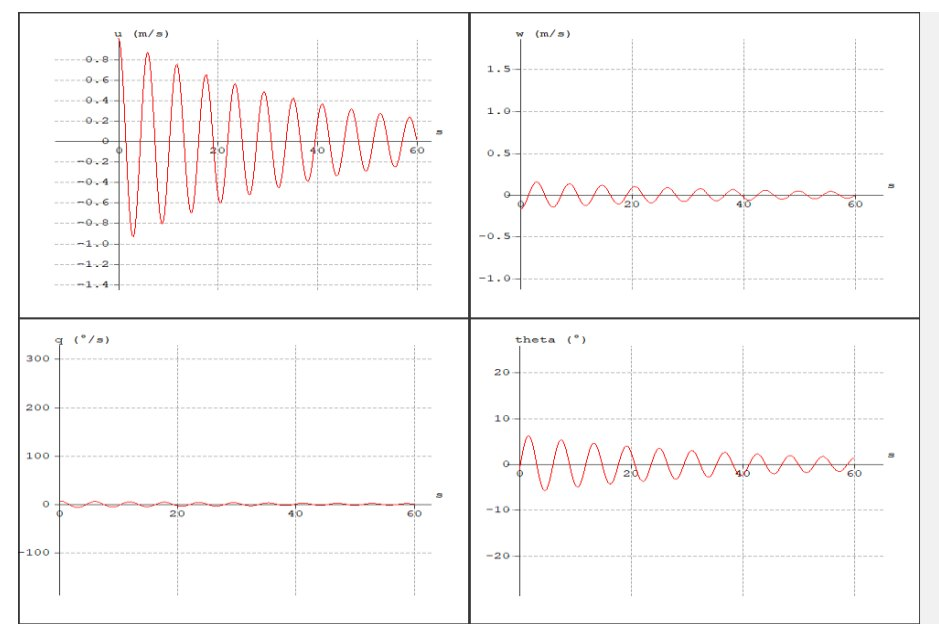
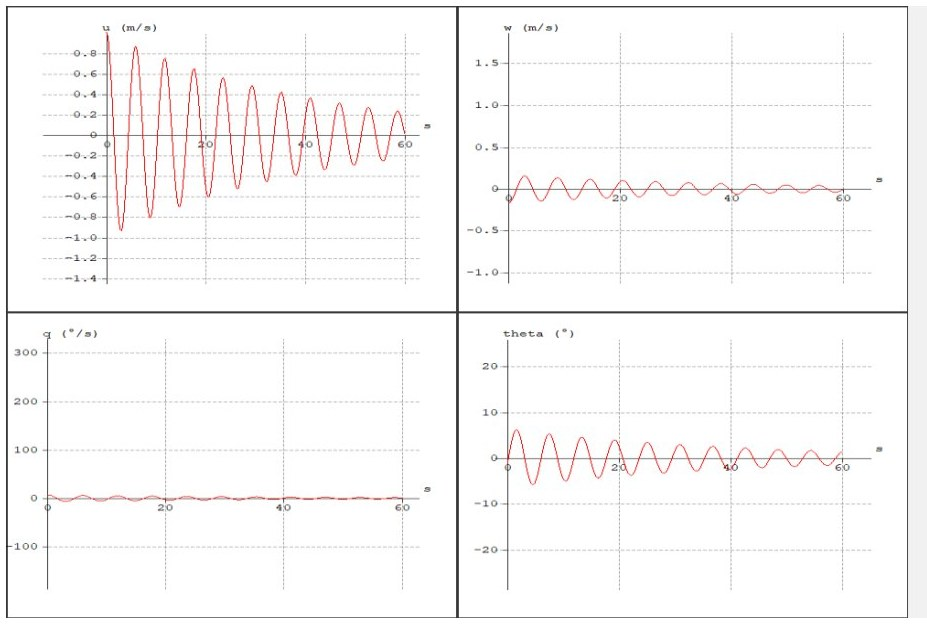
Image resizing

diff --git a/project-aero-portfolio.html b/project-aero-portfolio.html
@@ -8,6 +8,19 @@
   <link rel="preconnect" href="https://fonts.googleapis.com"/>
   <link href="https://fonts.googleapis.com/css2?family=Inter:wght@400;500;600;700;800&family=JetBrains+Mono:wght@400;500&display=swap" rel="stylesheet"/>
   <link rel="stylesheet" href="style-v1.1.css"/>
+  <style>
+    /* Aero page: side-by-side figures share one height. Each figure's flex-grow is its
+       image aspect ratio (--ar), so every image in a row ends up exactly the same height. */
+    .fig-row { display: flex; gap: 20px; align-items: flex-start; margin-bottom: 4px; }
+    .fig-row > .figure { flex: var(--ar, 1) 1 0; min-width: 0; }
+    .figure img { object-fit: cover; }
+    .figure.fig-wide { max-width: 100%; }
+    @media (max-width: 640px) {
+      .fig-row { flex-direction: column; gap: 0; }
+      .fig-row > .figure { flex: none; width: 100%; }
+      .fig-row > .figure.fig-narrow { width: 60%; margin-left: auto; margin-right: auto; }
+    }
+  </style>
 </head>
 <body>
 
@@ -68,7 +81,7 @@
     <div class="facts-grid">
       <div class="fact">
         <div class="fact-label">Where</div>
-        <div class="fact-value">IOE, Nepal</div>
+        <div class="fact-value">Thapathali Campus, IOE</div>
       </div>
       <div class="fact">
         <div class="fact-label">Projects</div>
@@ -106,7 +119,7 @@
     <!-- ── 1. Monocoque ── -->
     <section class="proj-section">
       <h2 id="monocoque">Glass-fibre composite monocoque body</h2>
-      <p class="sec-note">A hollow, one-piece fuselage for a 3 m wingspan RC aircraft. Guided by Lecturer Biman Rimal, Pulchowk Campus, IOE.</p>
+      <p class="sec-note">A hollow, one-piece fuselage for a 3 m wingspan RC aircraft. I designed and fabricated it at Thapathali Campus, IOE, under the guidance of Lecturer Biman Rimal.</p>
 
       <p>
         The goal was to fabricate a lightweight <strong>monocoque composite body</strong> for an RC
@@ -127,9 +140,9 @@
         <strong>mold core</strong>, a positive of the fuselage, was sent for 3D printing.
       </p>
 
-      <div class="figure-grid">
-        <figure class="figure">
-          <img src="assets/projects/aero-portfolio/img/monocoque_surface_wireframe.jpg" alt="CAD wireframe of fuselage cross-sections used to build the monocoque surface"/>
+      <div class="fig-row">
+        <figure class="figure" style="--ar:1.501">
+          <img src="assets/projects/aero-portfolio/img/monocoque_surface_wireframe.jpg" width="1142" height="761" loading="lazy" alt="CAD wireframe of fuselage cross-sections used to build the monocoque surface"/>
           <div class="ph">
             <div class="ph-icon">🧩</div>
             <div class="ph-title">Surface wireframe</div>
@@ -137,8 +150,8 @@
           </div>
           <figcaption><b>Fig. 1</b> — Fuselage surface built on a wireframe of cross-sections.</figcaption>
         </figure>
-        <figure class="figure">
-          <img src="assets/projects/aero-portfolio/img/monocoque_concept_cad.jpg" alt="Concept CAD of the split mold with hand-written manufacturing notes"/>
+        <figure class="figure" style="--ar:1.501">
+          <img src="assets/projects/aero-portfolio/img/monocoque_concept_cad.jpg" width="1229" height="819" loading="lazy" alt="Concept CAD of the split mold with hand-written manufacturing notes"/>
           <div class="ph">
             <div class="ph-icon">✏</div>
             <div class="ph-title">Concept CAD</div>
@@ -148,9 +161,9 @@
         </figure>
       </div>
 
-      <div class="figure-grid">
-        <figure class="figure">
-          <img src="assets/projects/aero-portfolio/img/mold_core_3d_printing.jpg" alt="Mold core sections being 3D printed with support structures"/>
+      <div class="fig-row">
+        <figure class="figure" style="--ar:1.499">
+          <img src="assets/projects/aero-portfolio/img/mold_core_3d_printing.jpg" width="550" height="367" loading="lazy" alt="Mold core sections being 3D printed with support structures"/>
           <div class="ph">
             <div class="ph-icon">🖨</div>
             <div class="ph-title">3D printing the core</div>
@@ -158,8 +171,8 @@
           </div>
           <figcaption><b>Fig. 3</b> — Printing the mold core in sections.</figcaption>
         </figure>
-        <figure class="figure">
-          <img src="assets/projects/aero-portfolio/img/mold_core_printed.jpg" alt="The assembled 3D-printed fuselage mold core"/>
+        <figure class="figure" style="--ar:1.501">
+          <img src="assets/projects/aero-portfolio/img/mold_core_printed.jpg" width="1600" height="1066" loading="lazy" alt="The assembled 3D-printed fuselage mold core"/>
           <div class="ph">
             <div class="ph-icon">✈</div>
             <div class="ph-title">Printed mold core</div>
@@ -177,9 +190,9 @@
         stabiliser built in, plus mounts for the horizontal stabiliser and the wing.
       </p>
 
-      <div class="figure-grid">
-        <figure class="figure">
-          <img src="assets/projects/aero-portfolio/img/negative_half_mold.jpg" alt="Negative half mold being prepared from the 3D-printed core"/>
+      <div class="fig-row">
+        <figure class="figure" style="--ar:2.000">
+          <img src="assets/projects/aero-portfolio/img/negative_half_mold.jpg" width="1600" height="800" loading="lazy" alt="Negative half mold being prepared from the 3D-printed core"/>
           <div class="ph">
             <div class="ph-icon">🧪</div>
             <div class="ph-title">Negative half mold</div>
@@ -187,8 +200,8 @@
           </div>
           <figcaption><b>Fig. 5</b> — Preparing the negative half mold from the printed core.</figcaption>
         </figure>
-        <figure class="figure">
-          <img src="assets/projects/aero-portfolio/img/monocoque_demolded.jpg" alt="Yellow glass-fibre monocoque fuselage taken out of the mold"/>
+        <figure class="figure" style="--ar:2.000">
+          <img src="assets/projects/aero-portfolio/img/monocoque_demolded.jpg" width="958" height="479" loading="lazy" alt="Yellow glass-fibre monocoque fuselage taken out of the mold"/>
           <div class="ph">
             <div class="ph-icon">🟡</div>
             <div class="ph-title">Demolded monocoque</div>
@@ -199,9 +212,9 @@
       </div>
 
       <h3>The finished aircraft</h3>
-      <div class="figure-grid">
-        <figure class="figure">
-          <img src="assets/projects/aero-portfolio/img/rc_plane_team.jpg" alt="The team standing behind the finished 3 m wingspan RC aircraft"/>
+      <div class="fig-row">
+        <figure class="figure" style="--ar:0.800">
+          <img src="assets/projects/aero-portfolio/img/rc_plane_team.jpg" width="1536" height="1920" loading="lazy" alt="The team standing behind the finished 3 m wingspan RC aircraft"/>
           <div class="ph">
             <div class="ph-icon">👥</div>
             <div class="ph-title">Team with the aircraft</div>
@@ -209,8 +222,8 @@
           </div>
           <figcaption><b>Fig. 7</b> — The team with the finished aircraft.</figcaption>
         </figure>
-        <figure class="figure">
-          <img src="assets/projects/aero-portfolio/img/rc_plane_fuselage_wings.jpg" alt="Painted blue monocoque fuselage standing between the two wing panels"/>
+        <figure class="figure" style="--ar:0.800">
+          <img src="assets/projects/aero-portfolio/img/rc_plane_fuselage_wings.jpg" width="1536" height="1920" loading="lazy" alt="Painted blue monocoque fuselage standing between the two wing panels"/>
           <div class="ph">
             <div class="ph-icon">🛩</div>
             <div class="ph-title">Fuselage and wings</div>
@@ -220,8 +233,8 @@
         </figure>
       </div>
 
-      <figure class="figure">
-        <img src="assets/projects/aero-portfolio/img/rc_plane_full_size.jpg" alt="Person lying next to the RC aircraft on grass for scale"/>
+      <figure class="figure" style="--ar:1.778">
+        <img src="assets/projects/aero-portfolio/img/rc_plane_full_size.jpg" width="1600" height="900" loading="lazy" alt="Person lying next to the RC aircraft on grass for scale"/>
         <div class="ph">
           <div class="ph-icon">📏</div>
           <div class="ph-title">Size check</div>
@@ -254,9 +267,9 @@
         planned missions without a problem.
       </p>
 
-      <div class="figure-grid" style="grid-template-columns: 2.3fr 1fr; align-items: start;">
-        <figure class="figure">
-          <img src="assets/projects/aero-portfolio/img/quadcopter.jpg" alt="Quadcopter with Pixhawk flight board on a red and white frame"/>
+      <div class="fig-row">
+        <figure class="figure" style="--ar:1.159">
+          <img src="assets/projects/aero-portfolio/img/quadcopter.jpg" width="1600" height="1380" loading="lazy" alt="Quadcopter with Pixhawk flight board on a red and white frame"/>
           <div class="ph">
             <div class="ph-icon">🚁</div>
             <div class="ph-title">The quadcopter</div>
@@ -264,8 +277,8 @@
           </div>
           <figcaption><b>Fig. 10</b> — The Pixhawk-powered quadcopter.</figcaption>
         </figure>
-        <figure class="figure">
-          <img src="assets/projects/aero-portfolio/img/quadcopter_autonomous_flight.jpg" alt="Quadcopter in flight above the planned mission path"/>
+        <figure class="figure fig-narrow" style="--ar:0.417">
+          <img src="assets/projects/aero-portfolio/img/quadcopter_autonomous_flight.jpg" width="379" height="909" loading="lazy" alt="Quadcopter in flight above the planned mission path"/>
           <div class="ph">
             <div class="ph-icon">🛰</div>
             <div class="ph-title">Autonomous flight</div>
@@ -308,8 +321,8 @@
         stability was confirmed did the project move on to building and testing a prototype.
       </p>
 
-      <figure class="figure">
-        <img src="assets/projects/aero-portfolio/img/uas_xflr5_model.jpg" alt="XFLR5 model of the fixed-wing UAV with mass distribution and model parameters"/>
+      <figure class="figure" style="--ar:1.456">
+        <img src="assets/projects/aero-portfolio/img/uas_xflr5_model.jpg" width="872" height="599" loading="lazy" alt="XFLR5 model of the fixed-wing UAV with mass distribution and model parameters"/>
         <div class="ph">
           <div class="ph-icon">✈</div>
           <div class="ph-title">XFLR5 model</div>
@@ -318,9 +331,9 @@
         <figcaption><b>Fig. 12</b> — Real-size XFLR5 model with mass distribution and model parameters.</figcaption>
       </figure>
 
-      <div class="figure-grid">
-        <figure class="figure">
-          <img src="assets/projects/aero-portfolio/img/uas_xflr5_polars.jpg" alt="XFLR5 polar plots for the aircraft"/>
+      <div class="fig-row">
+        <figure class="figure" style="--ar:1.754">
+          <img src="assets/projects/aero-portfolio/img/uas_xflr5_polars.jpg" width="982" height="560" loading="lazy" alt="XFLR5 polar plots for the aircraft"/>
           <div class="ph">
             <div class="ph-icon">📈</div>
             <div class="ph-title">Polars</div>
@@ -328,8 +341,8 @@
           </div>
           <figcaption><b>Fig. 13</b> — XFLR5 polar plots.</figcaption>
         </figure>
-        <figure class="figure">
-          <img src="assets/projects/aero-portfolio/img/uas_dynamic_stability.jpg" alt="XFLR5 time responses showing oscillations damping out"/>
+        <figure class="figure" style="--ar:1.486">
+          <img src="assets/projects/aero-portfolio/img/uas_dynamic_stability.jpg" width="927" height="624" loading="lazy" alt="XFLR5 time responses showing oscillations damping out"/>
           <div class="ph">
             <div class="ph-icon">〰</div>
             <div class="ph-title">Dynamic stability</div>
@@ -347,8 +360,8 @@
         which gives a visual of the mission along with key flight data such as terrain altitude.
       </p>
 
-      <figure class="figure">
-        <img src="assets/projects/aero-portfolio/img/uas_prototype.jpg" alt="Fixed-wing UAS prototype on grass, with telemetry and GPS antennas"/>
+      <figure class="figure" style="--ar:2.219">
+        <img src="assets/projects/aero-portfolio/img/uas_prototype.jpg" width="1156" height="521" loading="lazy" alt="Fixed-wing UAS prototype on grass, with telemetry and GPS antennas"/>
         <div class="ph">
           <div class="ph-icon">🛩</div>
           <div class="ph-title">UAS prototype</div>
@@ -357,9 +370,9 @@
         <figcaption><b>Fig. 15</b> — The prototype, with its telemetry and GPS antennas.</figcaption>
       </figure>
 
-      <div class="figure-grid">
-        <figure class="figure">
-          <img src="assets/projects/aero-portfolio/img/uas_mission_plan.jpg" alt="Mission Planner screen with waypoints over satellite imagery"/>
+      <div class="fig-row">
+        <figure class="figure" style="--ar:1.872">
+          <img src="assets/projects/aero-portfolio/img/uas_mission_plan.jpg" width="1086" height="580" loading="lazy" alt="Mission Planner screen with waypoints over satellite imagery"/>
           <div class="ph">
             <div class="ph-icon">🗺</div>
             <div class="ph-title">Mission plan</div>
@@ -367,8 +380,8 @@
           </div>
           <figcaption><b>Fig. 16</b> — The mission planned in Mission Planner.</figcaption>
         </figure>
-        <figure class="figure">
-          <img src="assets/projects/aero-portfolio/img/uas_flight_log.jpg" alt="Logged flight paths plotted over the waypoints"/>
+        <figure class="figure" style="--ar:1.438">
+          <img src="assets/projects/aero-portfolio/img/uas_flight_log.jpg" width="840" height="584" loading="lazy" alt="Logged flight paths plotted over the waypoints"/>
           <div class="ph">
             <div class="ph-icon">📍</div>
             <div class="ph-title">Logged flight path</div>
@@ -407,9 +420,9 @@
         it led directly to our final-year autonomous wildlife UAV.
       </p>
 
-      <div class="figure-grid">
-        <figure class="figure">
-          <img src="assets/projects/aero-portfolio/img/boeing2019_hand_launch.jpg" alt="Team preparing to hand-launch the aircraft at IIT Bombay, 2019"/>
+      <div class="fig-row">
+        <figure class="figure" style="--ar:1.857">
+          <img src="assets/projects/aero-portfolio/img/boeing2019_hand_launch.jpg" width="1114" height="600" loading="lazy" alt="Team preparing to hand-launch the aircraft at IIT Bombay, 2019"/>
           <div class="ph">
             <div class="ph-icon">🤾</div>
             <div class="ph-title">Hand launch, 2019</div>
@@ -417,8 +430,8 @@
           </div>
           <figcaption><b>Fig. 18</b> — Getting ready to hand-launch, IIT Bombay 2019.</figcaption>
         </figure>
-        <figure class="figure">
-          <img src="assets/projects/aero-portfolio/img/boeing2019_flight.jpg" alt="The 2019 aircraft in flight over the field"/>
+        <figure class="figure" style="--ar:1.772">
+          <img src="assets/projects/aero-portfolio/img/boeing2019_flight.jpg" width="1184" height="668" loading="lazy" alt="The 2019 aircraft in flight over the field"/>
           <div class="ph">
             <div class="ph-icon">🛫</div>
             <div class="ph-title">In flight, 2019</div>
@@ -428,8 +441,8 @@
         </figure>
       </div>
 
-      <figure class="figure">
-        <img src="assets/projects/aero-portfolio/img/boeing2019_team.jpg" alt="The 2019 team with their banner and aircraft"/>
+      <figure class="figure" style="--ar:1.778">
+        <img src="assets/projects/aero-portfolio/img/boeing2019_team.jpg" width="1600" height="900" loading="lazy" alt="The 2019 team with their banner and aircraft"/>
         <div class="ph">
           <div class="ph-icon">👥</div>
           <div class="ph-title">Team, 2019</div>
@@ -446,9 +459,9 @@
         campus.
       </p>
 
-      <div class="figure-grid">
-        <figure class="figure">
-          <img src="assets/projects/aero-portfolio/img/boeing2023_build.jpg" alt="Build photos: body, wing, release mechanism, full model and servo connection"/>
+      <div class="fig-row">
+        <figure class="figure" style="--ar:1.760">
+          <img src="assets/projects/aero-portfolio/img/boeing2023_build.jpg" width="1600" height="909" loading="lazy" alt="Build photos: body, wing, release mechanism, full model and servo connection"/>
           <div class="ph">
             <div class="ph-icon">🔧</div>
             <div class="ph-title">Build, 2023</div>
@@ -456,8 +469,8 @@
           </div>
           <figcaption><b>Fig. 21</b> — The 2023 build: body, wing, release mechanism, full model and servo connection.</figcaption>
         </figure>
-        <figure class="figure">
-          <img src="assets/projects/aero-portfolio/img/boeing2023_team.jpg" alt="The 2023 team holding their aircraft at IIT Bombay"/>
+        <figure class="figure" style="--ar:1.333">
+          <img src="assets/projects/aero-portfolio/img/boeing2023_team.jpg" width="800" height="600" loading="lazy" alt="The 2023 team holding their aircraft at IIT Bombay"/>
           <div class="ph">
             <div class="ph-icon">🏆</div>
             <div class="ph-title">Team, 2023</div>
